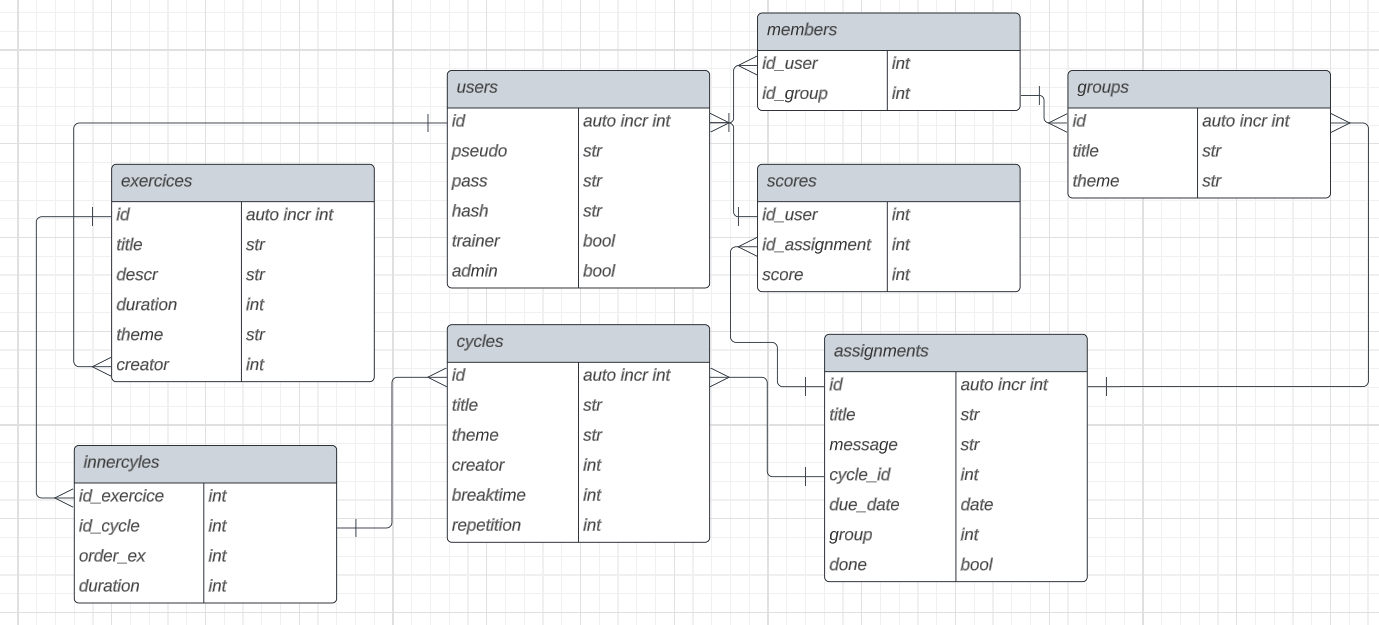
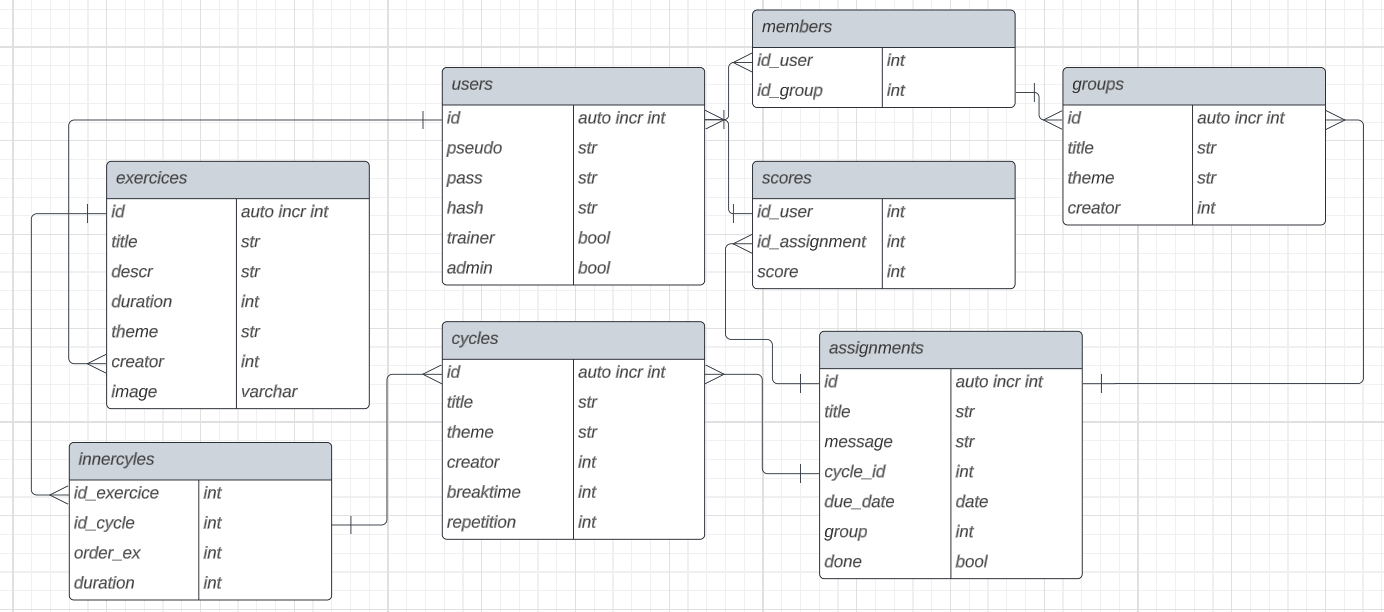
Update of API to make the calls more logical and more
cyles are done and groups should be testable

diff --git a/project/index.php b/project/index.php
@@ -126,9 +126,16 @@ if (valider("request")) {
 				} 
 				else {
 					// GET /api/users
-					$data["users"] = getUsers();
-					$data["success"] = true;
-					$data["status"] = 200;
+					if ($student = valider("student")){
+						$data["users"] = getUsers($student);
+						$data["success"] = true;
+						$data["status"] = 200;
+					} else {
+						$data["users"] = getUsers();
+						$data["success"] = true;
+						$data["status"] = 200;
+					}
+					
 				}
 			break; 
 
@@ -193,32 +200,47 @@ if (valider("request")) {
 			case 'GET_exercices' :
 				if ($idEntite1){
 					// GET /api/exercices/<id>
-					// si un id est fourni on renvoi les exos de l'utilisateur
+					// si un id est fourni on renvoi l'exo en question
 					// sinon tous
-					$data["article"] = getExercices($idEntite1);
+					$data["exercice"] = getExercice($idEntite1);
+					$data["success"] = true;
+					$data["status"] = 200;
+				} else {
+					// GET /api/exercices
+					$data["exercices"] = getExercices();
+					$data["success"] = true;
+					$data["status"] = 200; 
+				}
+			break;
+
+			case 'GET_users_exercices' :
+				if ($idEntite1){
+					// GET /api/users/<id>/exercices
+					// on renvoi les exos de l'utilisateur
+					$data["exercices"] = getExercices($idEntite1);
 					$data["success"] = true;
 					$data["status"] = 200;
 				} else {
 					// GET /api/articles
 					// Les listes de l'utilisateur connecté
-					$data["articles"] = getExercices();
+					$data["exercices"] = getExercices();
 					$data["success"] = true;
 					$data["status"] = 200; 
 				}
 			break;
-				
 
 			case 'POST_users_exercices' : 
-				// POST /api/users/<id>/exercices?title=...descr=...duration=...theme=...
+				// POST /api/users/<id>/exercices?title=...descr=...duration=...theme=...image=...
 				if ($idEntite1)
 				if ((($title = valider("title")))
 					&& ($descr = valider("descr")) 
 					&& ($duration = valider("duration"))
-					&& ($theme = valider("theme"))) {
+					&& ($theme = valider("theme"))
+					&& ($image = valider("image"))) {
 					if ($connectedId != $idEntite1) {
 						$data["status"] = 403;
 					} else {
-						$id = mkExercice($title, $descr, $duration, $theme, $idEntite1); 
+						$id = mkExercice($title, $descr, $duration, $theme, $idEntite1, $image); 
 						$data["exercice"] = getExercice($id);
 						$data["success"] = true;
 						$data["status"] = 201;
@@ -237,7 +259,7 @@ if (valider("request")) {
 					if ($connectedId != $idEntite1) {
 						$data["status"] = 403;
 					} else {
-						$id = upExercice($idEntite2, $title, $descr, $duration, $theme);
+						$id = upExercice($idEntite2, $title, $descr, $duration, $theme, $image);
 						$data["exercice"] = getExercice($id);				
 						$data["success"] = true;
 						$data["status"] = 201; 
@@ -265,11 +287,39 @@ if (valider("request")) {
 			// GESTION DES CYCLES
 
 			case 'GET_cycles' :
-				// GET /api/users/<id>/cycles?$title...theme...breaktime...
-			
-				break;
+				// GET /api/cycles
+				if ($idEntite1){
+					// GET /api/cycles/<id>
+					// si un id est fourni on renvoi le cycle sélectionné
+					// sinon tous
+					$data["cycles"] = getCycle($idEntite1);
+					$data["success"] = true;
+					$data["status"] = 200;
+				} else {
+					$data["cycles"] = getCycles();
+					$data["success"] = true;
+					$data["status"] = 200;
+				}
+			break;
+
+			case 'GET_users_cycles' :
+				// GET /api/users/<id>/cycles
+				if ($idEntite1){
+					// GET /api/cycles/<id>
+					// si un id est fourni on renvoi les cycles de l'utilisateur
+					$data["cycles"] = getCycles($idEntite1);
+					$data["success"] = true;
+					$data["status"] = 200;
+				} else {
+					$data["cycles"] = getCycles();
+					$data["success"] = true;
+					$data["status"] = 200;
+				}
+			break;
+
+
 			case 'POST_users_cycles' :
-				// POST /api/users/<id>/cycles?$title...theme...breaktime...
+				// POST /api/users/<id>/cycles?$title...theme...breaktime...repetition...
 				if ($idEntite1)
 				if (!$idEntite2) {
 					if ((($title = valider("title")))
@@ -286,6 +336,7 @@ if (valider("request")) {
 					}
 				}
 				} else {
+					// POST /api/users/<id>/cycles/<id>?$order...duration...exerciceid...
 					if ((($order = valider("order")))
 					&& ($duration = valider("duration")) 
 					&& ($exerciceid = valider("exerciceid"))) {
@@ -300,6 +351,126 @@ if (valider("request")) {
 					}
 				}
 			break;
+
+			case 'PUT_users_cycles' :
+				// PUT /api/users/<id>/cycles/<id>?old_order...new_order...exerciceid...
+				// echange l'ordre de deux exercices dans un cycle
+				if ($idEntite1)
+				if ($idEntite2) {
+					if ($connectedId != $idEntite1 && (!isAdmin($connectedId))) {
+						$data["status"] = 403;
+					} else {
+						if ((($old_order = valider("old_order")))
+						&& ($new_order = valider("new_order")) 
+						&& ($exerciceid = valider("exerciceid"))) {
+							if ($id = moveExCycle($old_order, $new_order, $idEntite2, $exerciceid)) {	
+								$data["innercycle"] = getExCycle($id);		
+								$data["success"] = true;
+								$data["status"] = 200; 
+							} else {
+								// erreur 
+							}
+						}
+					}
+				}
+
+			break;
+
+			case 'DELETE_users_cycles' :
+				// DELETE /api/users/<id>/cycles/<id>
+				if ($idEntite1)
+				if ($idEntite2) {
+					if ($connectedId != $idEntite1 && (!isAdmin($connectedId))) {
+						$data["status"] = 403;
+					} else {
+						if (rmCycle($idEntite2)) {				
+							$data["success"] = true;
+							$data["status"] = 200; 
+						} else {
+							// erreur 
+						}
+					}
+				}
+			break;
+
+			// GESTION DES GROUPES
+			
+			case 'GET_groups' :
+				// GET /api/groups
+				if ($idEntite1){
+					// GET /api/groups/<id>
+					// si un id est fourni on renvoi le groupe selectionné
+					// sinon tous
+					$data["members"] = getGroup($idEntite1);
+					$data["success"] = true;
+					$data["status"] = 200;
+				} else {
+					$data["groupes"] = getGroups();
+					$data["success"] = true;
+					$data["status"] = 200;
+				}
+			break;
+
+			case 'GET_users_groups' :
+				// GET /api/users/<id>/groups/
+				if ($idEntite1){
+					$data["groupes"] = getGroups($idEntite1);
+					$data["success"] = true;
+					$data["status"] = 200;
+				}
+			break;
+
+
+			case 'POST_users_groups' :
+				// POST /api/users/<id>/groups?title...theme...members...
+				if ($idEntite1)
+				if (!$idEntite2) {
+					if ((($title = valider("title")))
+					&& ($theme = valider("theme")) 
+					&& ($members = valider("members"))) {
+					if ($connectedId != $idEntite1 || !isTrainer($connectedId)) {
+						$data["status"] = 403;
+					} else {
+						$id = mkGroup($title, $theme, $idEntite1, $members); 
+						$data["members"] = getGroup($id);
+						$data["success"] = true;
+						$data["status"] = 201;
+					}
+				}
+				} else {
+					// POST /api/users/<id>/cycles/<id>?$order...duration...exerciceid...
+					if ((($order = valider("order")))
+					&& ($duration = valider("duration")) 
+					&& ($exerciceid = valider("exerciceid"))) {
+						if ($connectedId != $idEntite1 || !isTrainer($connectedId)) {
+							$data["status"] = 403;
+						} else {
+							$id = insertExCycle($order, $duration, $idEntite2, $exerciceid); 
+							$data["innercycle"] = getExCycle($id);
+							$data["success"] = true;
+							$data["status"] = 201;
+						}
+					}
+				}
+			break;
+			
+			case "DELETE_users_groups":
+				// DELETE /api/users/<id>/groups/<id>
+				if ($idEntite1)
+				if ($idEntite2) {
+					if ($connectedId != $idEntite1 && (!isAdmin($connectedId))) {
+						$data["status"] = 403;
+					} else {
+						if (rmGroup($idEntite2, $idEntite1)) {				
+							$data["success"] = true;
+							$data["status"] = 200; 
+						} else {
+							// erreur 
+						}
+					}
+				}
+			break;
+
 
 			// case 'POST_users_cycles' :
 			// 	// POST /api/users/<id>/cycles/<id>?$order...duration...exerciceid...

diff --git a/project/libs/modele.php b/project/libs/modele.php
@@ -22,13 +22,16 @@ function hash2pseudo($hash) {
 	return SQLGetChamp($SQL); 
 }
 
-function getUsers(){
+function getUsers($students = false){
 	$SQL = "SELECT id,pseudo FROM users";
+	if ($students) {
+		$SQL .= " WHERE trainer = 0 AND admin = 0";
+	}
 	return parcoursRs(SQLSelect($SQL));
 }
 
 function getUser($idUser){
-	$SQL = "SELECT id,pseudo FROM users WHERE id='$idUser'";
+	$SQL = "SELECT id,pseudo,trainer,admin FROM users WHERE id='$idUser'";
 	$rs = parcoursRs(SQLSelect($SQL));
 	if (count($rs)) return $rs[0]; 
 	else return array();
@@ -189,7 +192,7 @@ function isAdmin($id) {
 // NEW CRUD EXERCICE ////////////////////////////////////////////////////////////////////////////////
 
 function getExercices($id = false){
-	$SQL = "SELECT e.id,e.title,u.pseudo FROM exercices e INNER JOIN users u ON u.id = e.creator";
+	$SQL = "SELECT e.id,e.title,e.theme,e.image,u.pseudo FROM exercices e INNER JOIN users u ON u.id = e.creator";
 	if ($id) {
 		$SQL .= " WHERE creator='$id'";
 	}
@@ -205,13 +208,13 @@ function getExercice($id,$idUser=false){
 	else return array();
 }
 
-function mkExercice($title, $descr, $duration, $theme, $creatorid){
-	$SQL = "INSERT INTO exercices(title,descr,duration,theme,creator) VALUES('$title','$descr', '$duration', '$theme', '$creatorid')";
+function mkExercice($title, $descr, $duration, $theme, $creatorid, $image){
+	$SQL = "INSERT INTO exercices(title,descr,duration,theme,creator,image) VALUES('$title','$descr', '$duration', '$theme', '$creatorid', '$image')";
 	return SQLInsert($SQL);
 }
 
-function upExercice($id, $title, $descr, $duration, $theme){
-	$SQL = "UPDATE exercices SET title='$title', descr='$descr', duration='$duration', theme='$theme' WHERE id='$id'";;
+function upExercice($id, $title, $descr, $duration, $theme, $image){
+	$SQL = "UPDATE exercices SET title='$title', descr='$descr', duration='$duration', theme='$theme', image = $image WHERE id='$id'";;
 	return SQLUpdate($SQL);
 }
 
@@ -270,6 +273,14 @@ function rmCycle($cycleid) {
 	return SQLDelete($SQL);
 }
 
+function getCycles($iduser = false) {
+	$SQL = "SELECT * FROM cycles";
+	if ($iduser) {
+		$SQL .= " WHERE creator = '$iduser'";
+	}
+	return(parcoursRs(SQLSelect($SQL)));
+}
+
 function getCycle($cycleid) {
 	$SQL = "SELECT * FROM cycles WHERE id='$cycleid'";
 	return(parcoursRs(SQLSelect($SQL)));
@@ -278,5 +289,45 @@ function getCycle($cycleid) {
 function getExCycle($cycleid) {
 	$SQL = "SELECT id_exercice,order_ex,duration FROM innercycles WHERE id_cycle='$cycleid' ORDER BY order_ex ASC";
 	return parcoursRs(SQLSelect($SQL));
+}
+
+// NEW CRUD GROUP ////////////////////////////////////////////////////////////////////////////////
+
+function getGroup($id) {
+	$SQL = "SELECT u.pseudo, u.id FROM users u INNER JOIN members m ON m.id_user = u.id WHERE m.id_group = '$id' 
+	ORDER BY u.id ASC";
+	return parcoursRs(SQLSelect($SQL));
+}
+
+function getGroups($id = false) {
+	$SQL = "SELECT * FROM community";
+	if ($id){
+		$SQL .= " WHERE creator = '$id'";
+	}  
+
+	return parcoursRs(SQLSelect($SQL));
+}
+
+function mkGroup($title, $theme, $creatorid, $members) {
+	$SQL = "INSERT INTO community(title, theme, creator) VALUES('$title', '$theme', '$creatorid')";
+	$created_groupid = SQLInsert($SQL);
+	for ($i=0; $i< count($members); $i++) {
+		$new_member = $members[$i];
+		$SQL = "INSERT INTO members(id_user, id_group) VALUES('$new_member', '$created_groupid')";
+		SQLInsert($SQL);
+	}
+	return $created_groupid;
+}
+
+function rmGroup($groupid, $userId){
+	$SQL = "SELECT creator FROM community WHERE creator ='$userId'";
+	$autorise = SQLGetChamp($SQL);
+	if ($autorise) {
+		$SQL = "DELETE FROM members WHERE id_group ='$groupid'";
+		SQLDelete($SQL);
+		$SQL = "DELETE FROM community WHERE id ='$groupid'";
+		return SQLDelete($SQL);
+	}
+	
 }
 ?>
